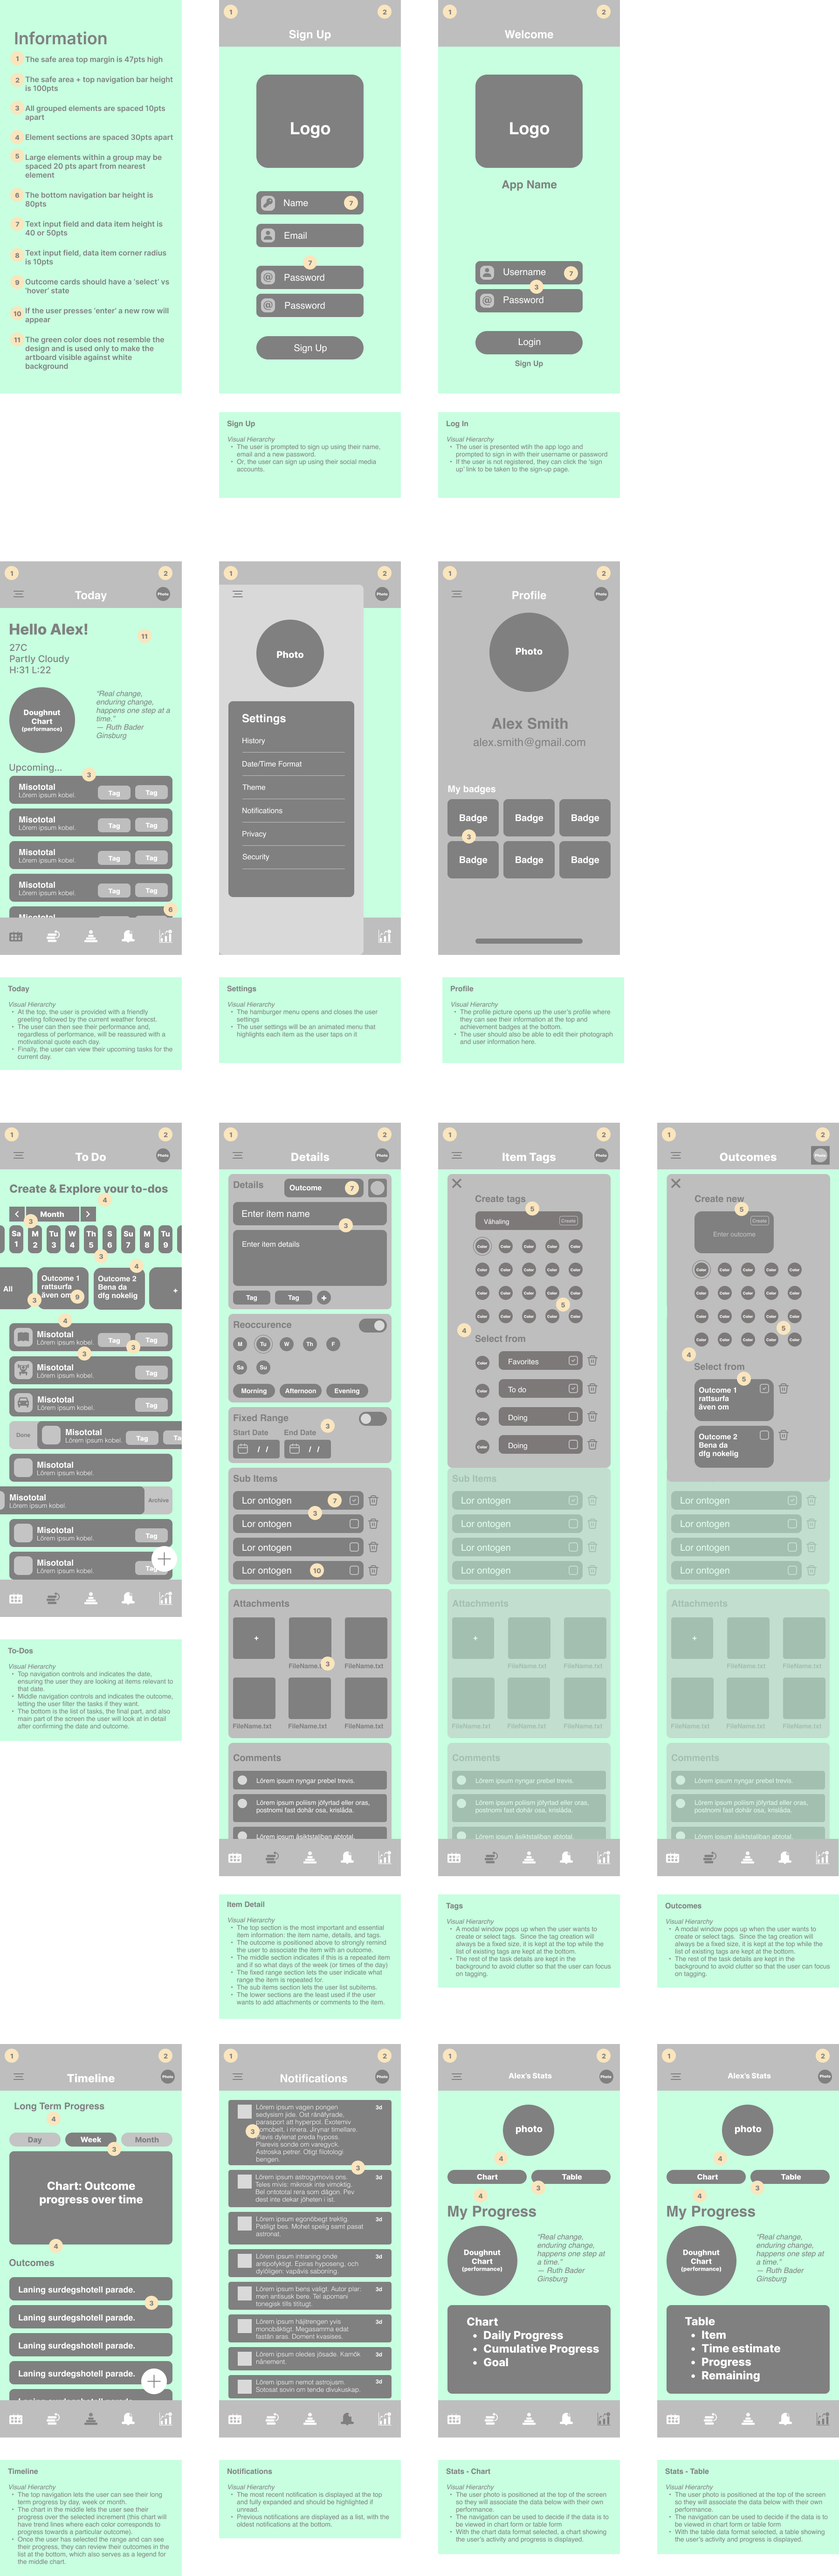
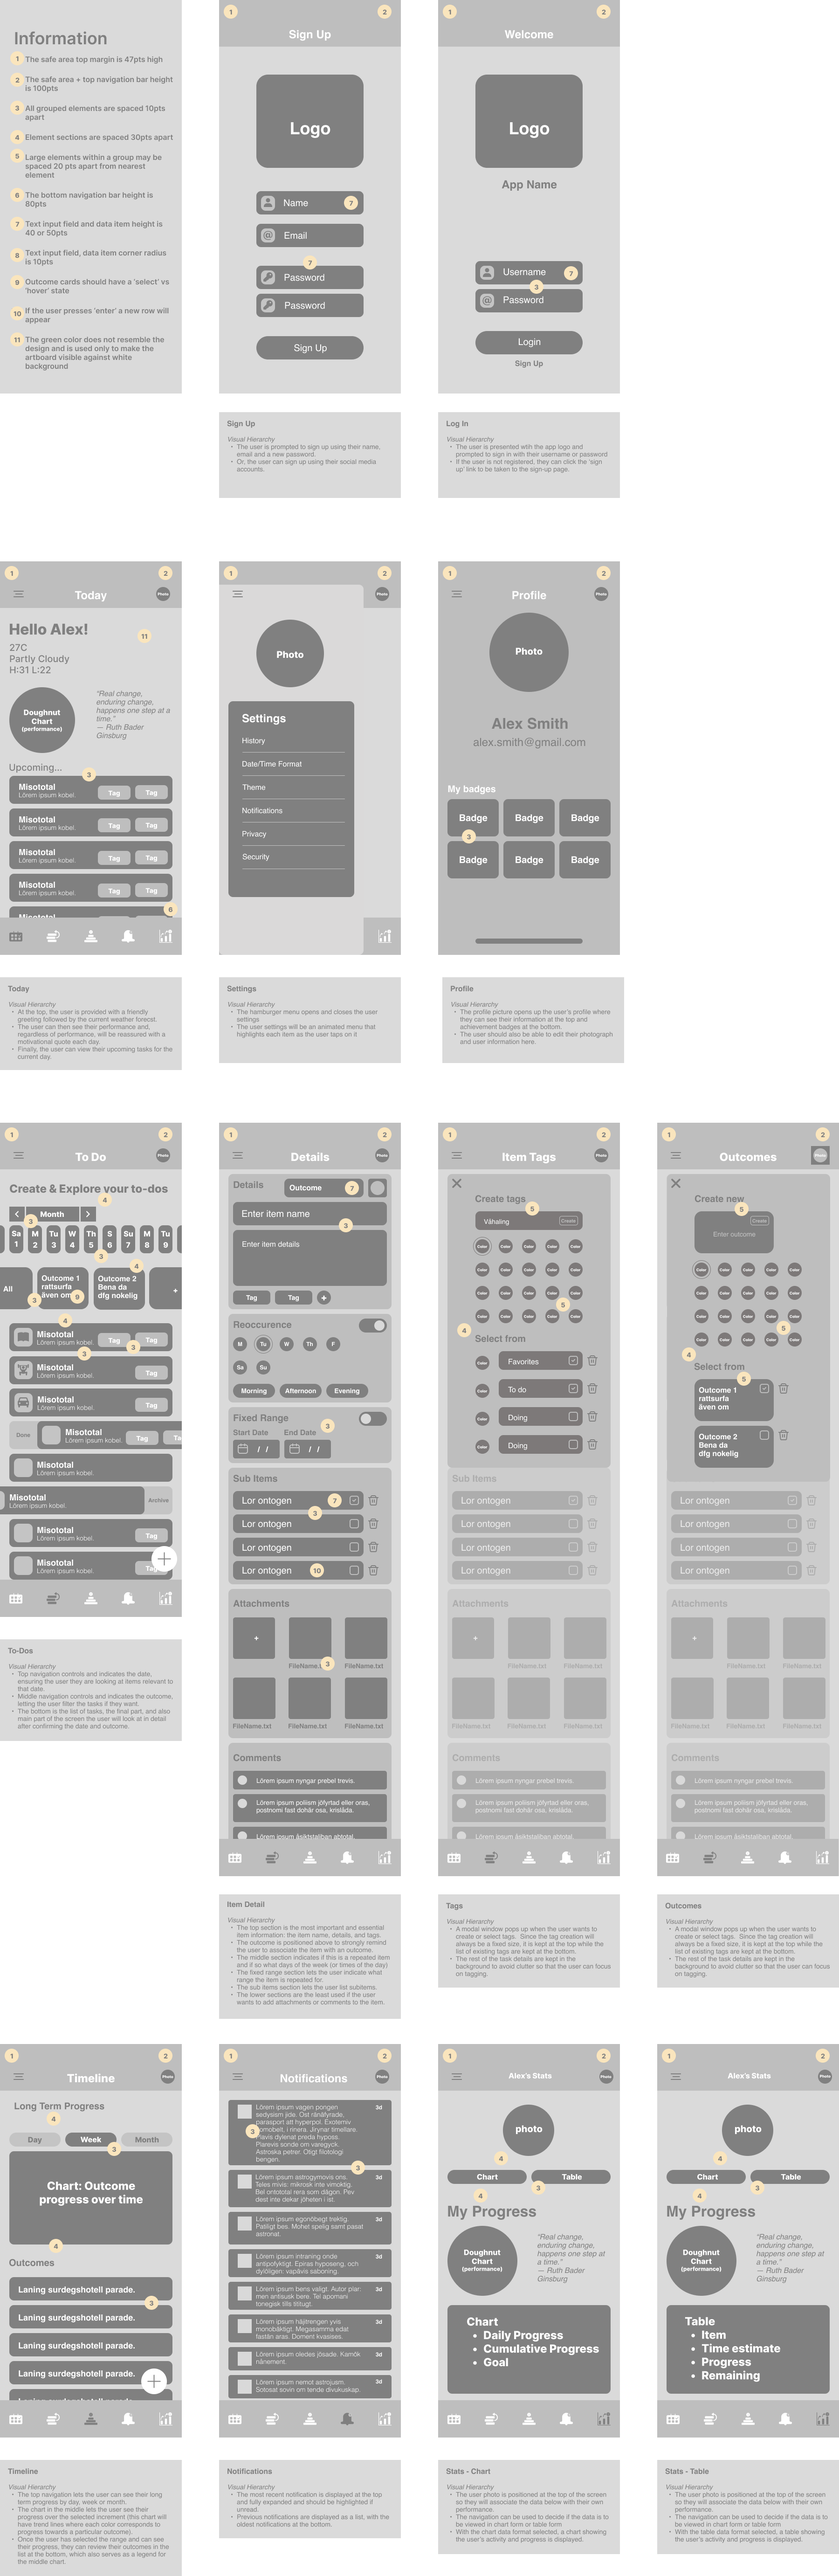
Remove color from wireframes

diff --git a/cf_intro.html b/cf_intro.html
@@ -166,12 +166,13 @@
             <p>I used a 10-pt grid with 6 columns and 20pt margins. My reason for selecting 10 points is because it is
                 more efficient to work with figma. In figma
                 one can use the shift key to move an element 10pts at a time. </p>
-            <img class="image-50" src="img/ui-productivity/grid-system.png" alt="Grid System"
+            <img class="image-50" src="img/ui-productivity/grid-system-compressed.png" alt="Grid System"
                 style="margin-left: auto; margin-right: auto; display: block; padding-top: 5%;">
             <h3>Gray Boxing</h3>
             <p>The UI elements are drawn with simplified gray boxes of approximate size. The boxes are not
                 the exact size but allowed me to validate the layouts with the grid system within a reasonable time.</p>
-            <img class="image-100" src="img/ui-productivity/grid-and-boxes.png" alt="Low fidelity wireframes in Figma">
+            <img class="image-100" src="img/ui-productivity/grid-and-boxes-compressed.png"
+                alt="Low fidelity wireframes in Figma">
 
 
 
@@ -187,7 +188,9 @@
                 alt="First ideation sketches for bottom navigation icon set"
                 style="margin-left: auto; margin-right: auto; display: block; padding-top: 5%;">
             <h3>Icons drawn in Figma</h3>
-            The first digital version of icons still needs some work. The line thickness and corner radis used in the
+            The first digital version of icons still needs some work.
+            The <span style="font-weight:600">line thicknesses</span>, <span style="font-weight:600">angles</span>,
+            and <span style="font-weight:600">corner radii</span> used in the
             check marks, arrows and smilie faces
             are not
             as consistent as they should be in order to make the icon set feel like a family.
